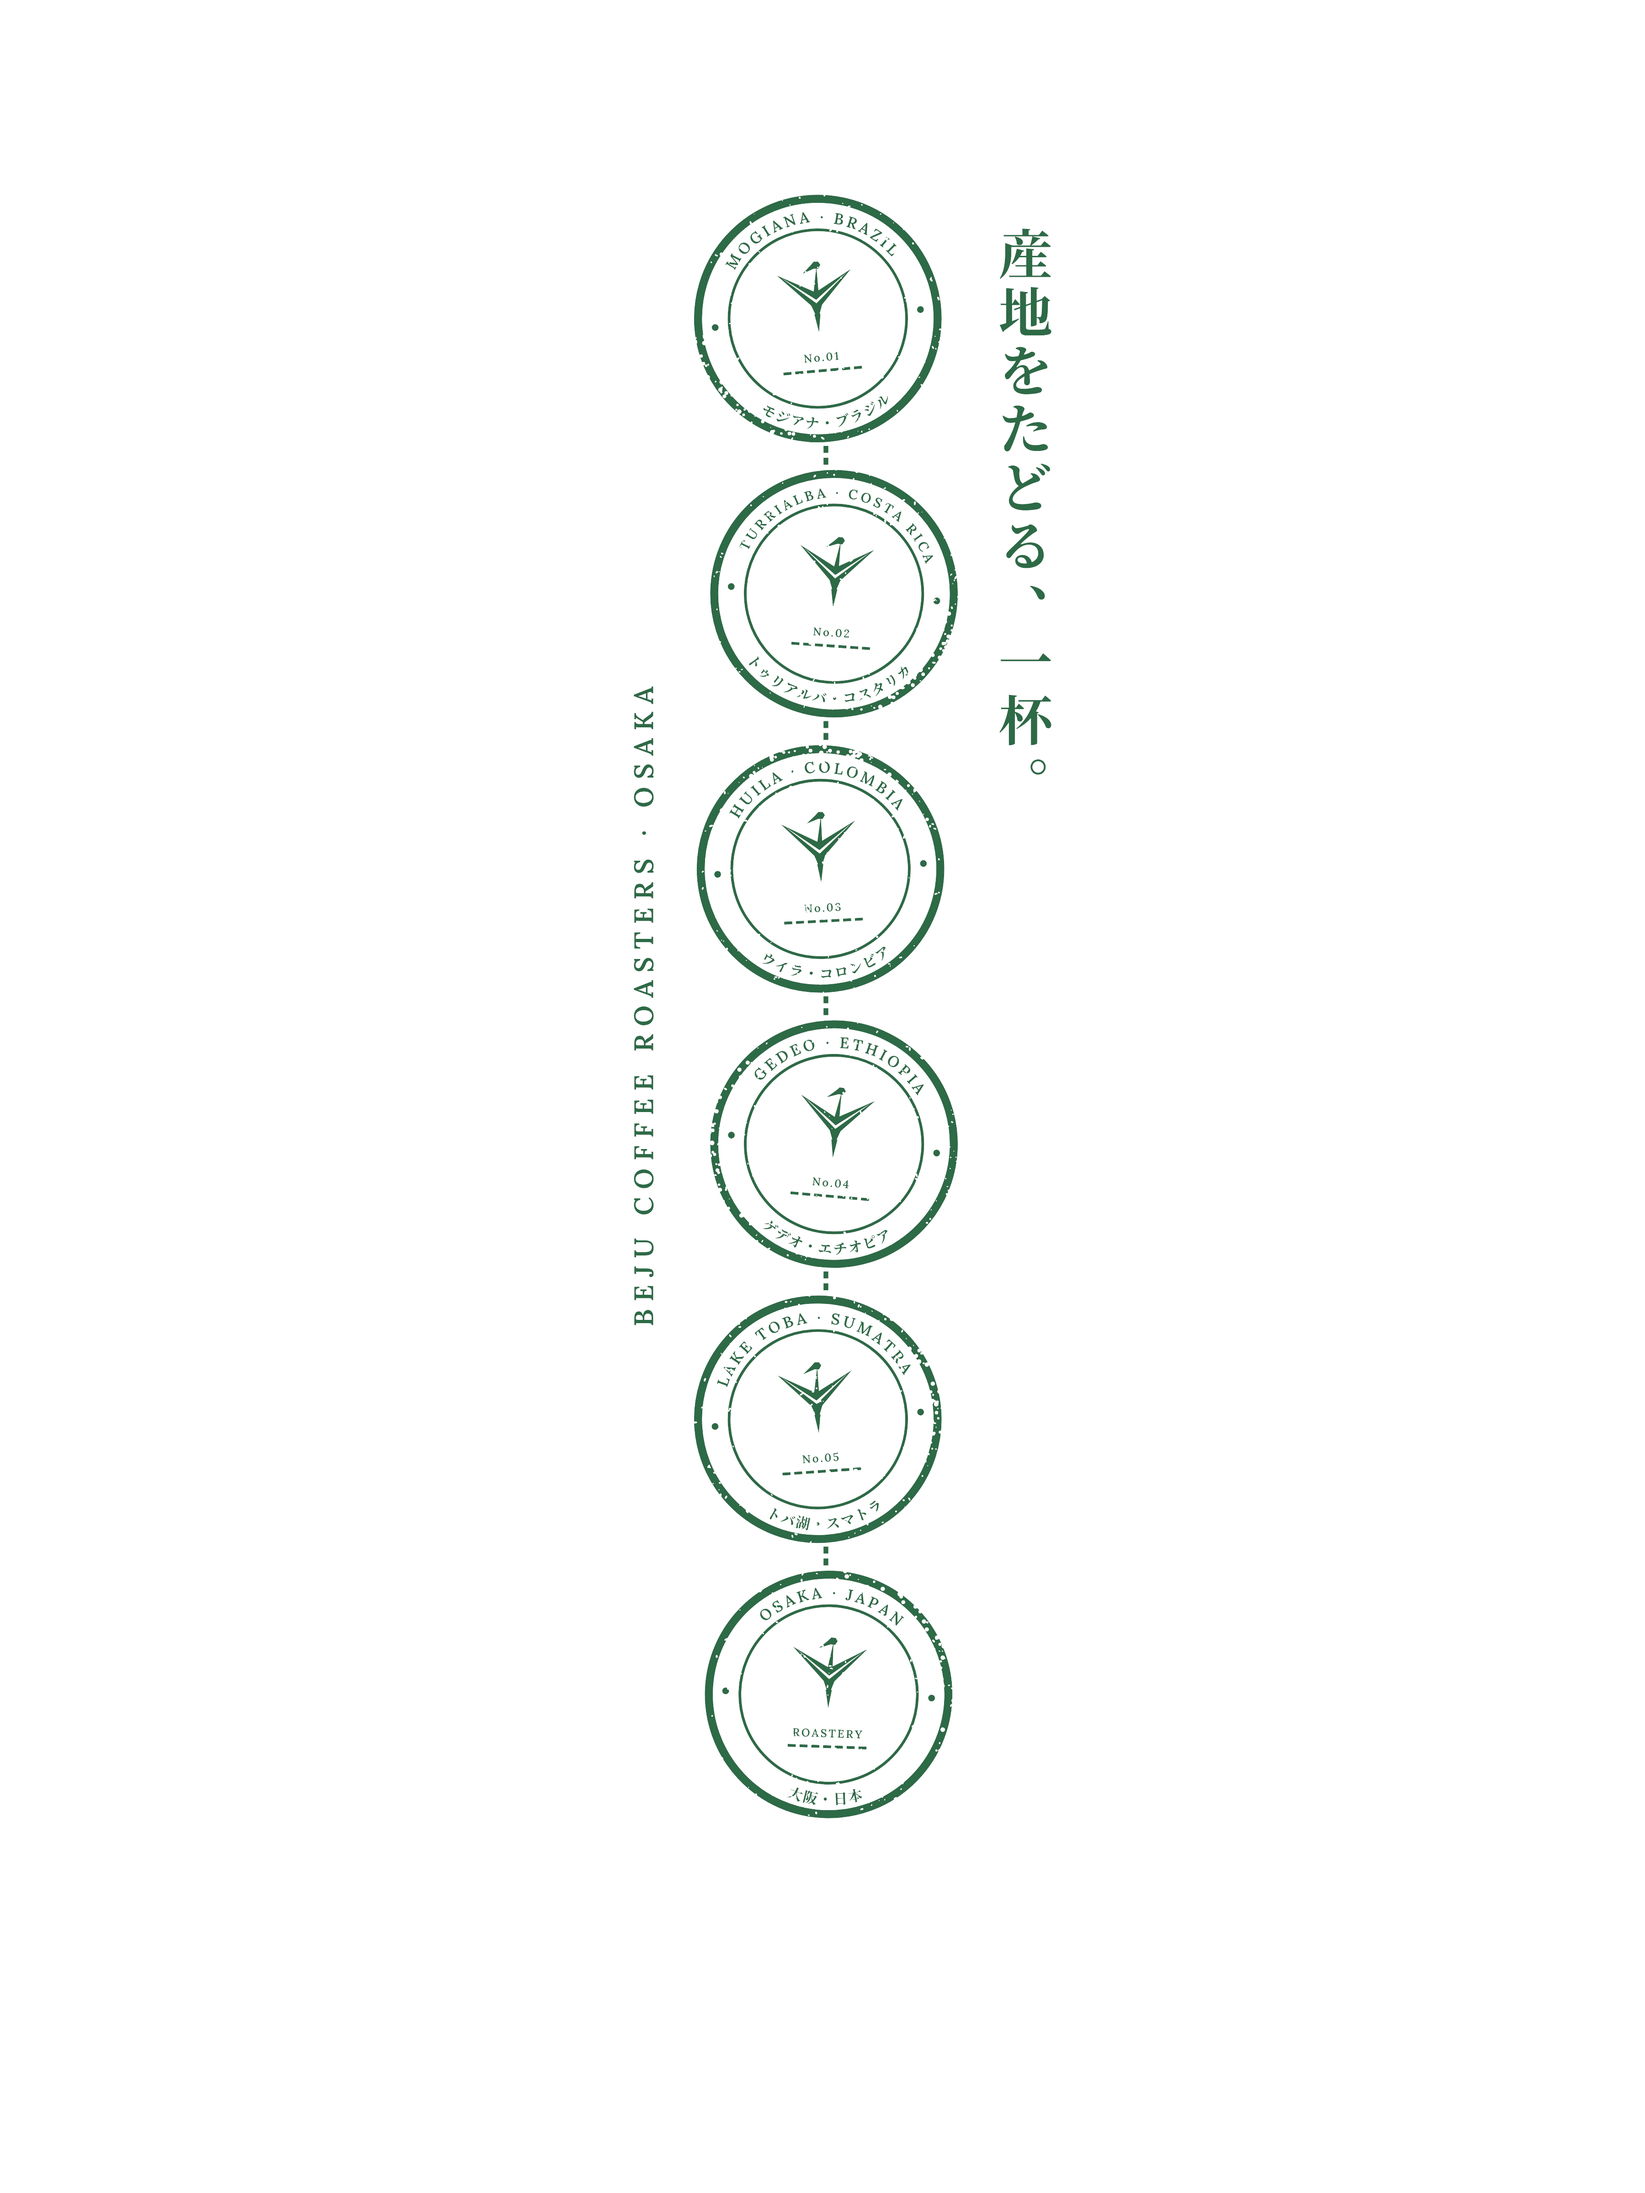
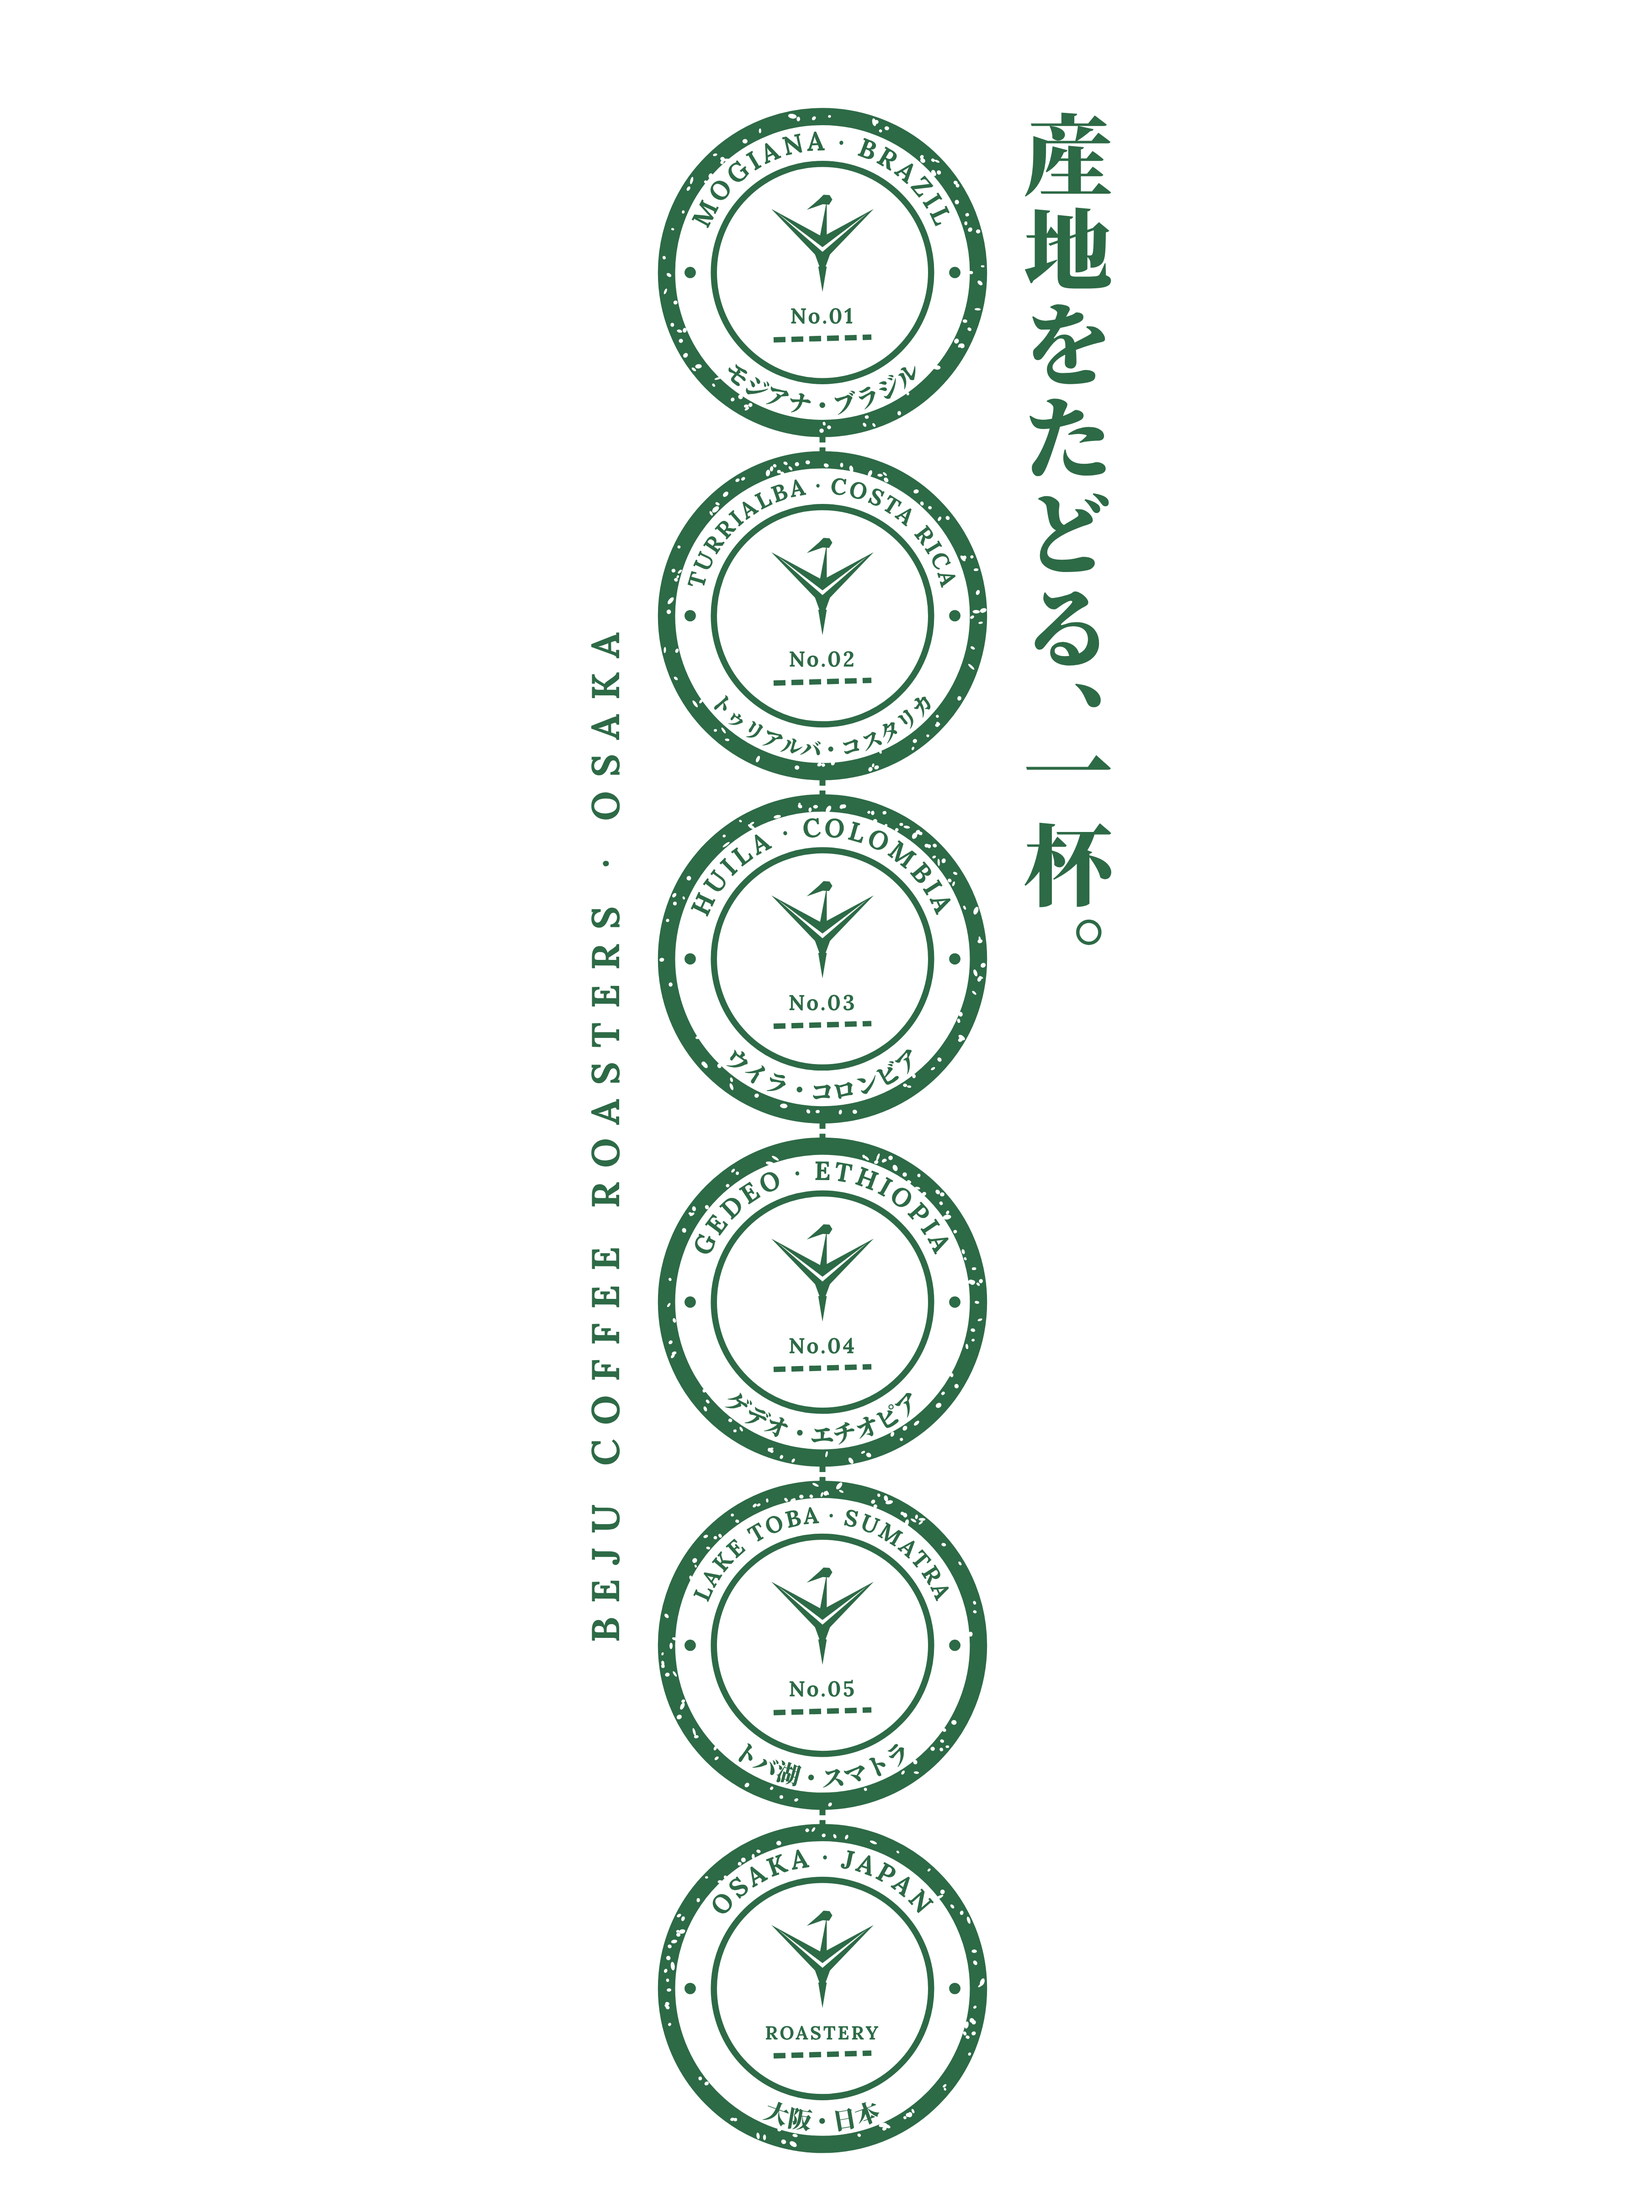
Passport tee back v2: larger stamps, bolder lettering, rebuilt as vector
Claude-Session: https://claude.ai/code/session_01DATZ3e2wnTa2q48YzpDCKH

Changed region(s): [[0.3422, 0.0312, 0.6844, 1.0], [0.6222, 0.375, 0.6844, 0.4375]]

diff --git a/print/tee/source/back.js b/print/tee/source/back.js
@@ -1,0 +1,53 @@
+// Beju Passport Tee back, v2 (Nov 2026): six passport stamps, 61 mm each, Lora Bold and Noto Serif JP Black.
+// Usage: node back.js <outdir> <fontsdir>. fontsdir holds the npm packages @fontsource/lora and @fontsource/noto-serif-jp unpacked
+// as x/fontsource-lora-5.3.0/package and x/fontsource-noto-serif-jp-5.3.1/package. Writes beju-passport-tee_{c2,pink}-back.png, 3600 x 4800 px (12 x 16 in at 300 dpi).
+const {chromium}=require('playwright');const fs=require('fs');const path=require('path');
+const OUT=process.argv[2], F=process.argv[3]; // fonts dir
+const logo=fs.readFileSync(path.join(__dirname,'../../../beju-site/images/logo.svg'),'utf8');
+const inner=logo.replace(/^<svg[^>]*>/,'').replace(/<\/svg>\s*$/,'');
+const stamps=[['MOGIANA · BRAZIL','モジアナ・ブラジル','No.01'],['TURRIALBA · COSTA RICA','トゥリアルバ・コスタリカ','No.02'],['HUILA · COLOMBIA','ウイラ・コロンビア','No.03'],['GEDEO · ETHIOPIA','ゲデオ・エチオピア','No.04'],['LAKE TOBA · SUMATRA','トバ湖・スマトラ','No.05'],['OSAKA · JAPAN','大阪・日本','ROASTERY']];
+function rnd(seed){return()=>{seed=(seed*16807)%2147483647;return seed/2147483647}}
+function build(ink,cutId){
+ const W=304.8,H=406.4,D=61,R=D/2,pitch=63.6,cx=W/2,top=20;
+ let s='',defs='';
+ // distress mask: speckles punched out of the ink
+ const r=rnd(7);let dots='';
+ for(let k=0;k<6;k++){const cy=top+R+k*pitch;
+  for(let i=0;i<70;i++){const a=r()*Math.PI*2, rr=R-0.6-r()*2.6; const big=r()<0.15; dots+=`<ellipse cx="${(cx+Math.cos(a)*rr).toFixed(2)}" cy="${(cy+Math.sin(a)*rr).toFixed(2)}" rx="${(big?0.55:0.25)+r()*0.25}" ry="${0.2+r()*0.25}" transform="rotate(${(r()*180).toFixed(0)} ${(cx+Math.cos(a)*rr).toFixed(2)} ${(cy+Math.sin(a)*rr).toFixed(2)})"/>`;}
+  for(let i=0;i<0;i++){const a=r()*Math.PI*2, rr=r()*R*0.95; dots+=`<circle cx="${(cx+Math.cos(a)*rr).toFixed(2)}" cy="${(cy+Math.sin(a)*rr).toFixed(2)}" r="${0.15+r()*0.2}"/>`;}}
+ defs+=`<mask id="${cutId}" maskUnits="userSpaceOnUse" x="0" y="0" width="${W}" height="${H}"><rect width="${W}" height="${H}" fill="white"/><g fill="black">${dots}</g></mask>`;
+ let g='';
+ stamps.forEach(([en,jp,no],k)=>{const cy=top+R+k*pitch;
+  const ro=R-1.6, ri=R*0.66, rt=(ro+ri)/2; // text radius
+  g+=`<circle cx="${cx}" cy="${cy}" r="${ro}" fill="none" stroke="${ink}" stroke-width="3.2"/>`;
+  g+=`<circle cx="${cx}" cy="${cy}" r="${ri}" fill="none" stroke="${ink}" stroke-width="1.15"/>`;
+  g+=`<circle cx="${cx-rt}" cy="${cy}" r="1.05" fill="${ink}"/><circle cx="${cx+rt}" cy="${cy}" r="1.05" fill="${ink}"/>`;
+  const ta=rt-1.9; // top arc baseline radius (text sits outside-in)
+  defs+=`<path id="t${k}" d="M ${cx-ta} ${cy} A ${ta} ${ta} 0 0 1 ${cx+ta} ${cy}"/>`;
+  const tb=rt+1.75;
+  defs+=`<path id="b${k}" d="M ${cx-tb} ${cy} A ${tb} ${tb} 0 0 0 ${cx+tb} ${cy}"/>`;
+  const fsEn=en.length>17?4.3:4.9;
+  g+=`<text font-family="LoraB" font-weight="700" font-size="${fsEn}" letter-spacing="${en.length>17?0.32:0.55}" fill="${ink}"><textPath href="#t${k}" startOffset="50%" text-anchor="middle">${en}</textPath></text>`;
+  g+=`<text font-family="NSJ" font-weight="900" font-size="${jp.length>9?3.9:4.4}" letter-spacing="0.15" fill="${ink}"><textPath href="#b${k}" startOffset="50%" text-anchor="middle">${jp}</textPath></text>`;
+  // crane
+  const cs=ri*0.98; g+=`<svg x="${cx-cs/2}" y="${cy-ri*0.78}" width="${cs}" height="${cs}" viewBox="0 0 100 100">${inner.replace(/id="f"/g,'id="f'+cutId+k+'"').replace(/url\(#f\)/g,'url(#f'+cutId+k+')').replace(/#2D6A46/gi,ink)}</svg>`;
+  g+=`<text x="${cx}" y="${cy+ri*0.47}" text-anchor="middle" font-family="LoraB" font-weight="700" font-size="${no==='ROASTERY'?3.5:4.0}" letter-spacing="0.35" fill="${ink}">${no}</text>`;
+  const dw=ri*0.9, y=cy+ri*0.62; g+=`<line x1="${cx-dw/2}" y1="${y}" x2="${cx+dw/2}" y2="${y-0.5}" stroke="${ink}" stroke-width="1.0" stroke-dasharray="2.2 1.1"/>`;
+  if(k<5){const y0=cy+R-0.2,y1=cy+pitch-R+0.2; g+=`<line x1="${cx}" y1="${y0}" x2="${cx}" y2="${y1}" stroke="${ink}" stroke-width="1.1" stroke-dasharray="1.2 0.9"/>`;}
+ });
+ const colH=5*pitch+D;
+ // side texts
+ const side=`<text transform="translate(${cx-R-9} ${top+colH/2}) rotate(-90)" text-anchor="middle" dominant-baseline="middle" font-family="LoraB" font-weight="700" font-size="7.2" letter-spacing="2.6" fill="${ink}">BEJU COFFEE ROASTERS · OSAKA</text>`;
+ const chars=[...'産地をたどる、一杯。'];let tag='',ty=top+15;const tx=cx+R+15,fs=16.5;
+ for(const ch of chars){const punct='、。'.includes(ch);
+  tag+=`<text x="${punct?tx+fs*0.55:tx}" y="${punct?ty-fs*0.62:ty}" text-anchor="middle" font-family="NSJ" font-weight="900" font-size="${fs}" fill="${ink}">${ch}</text>`;
+  ty+=punct?fs*0.55:fs*1.06;}
+ return `<svg xmlns="http://www.w3.org/2000/svg" width="3600" height="4800" viewBox="0 0 ${W} ${H}"><defs>${defs}</defs><g mask="url(#${cutId})">${g}${side}${tag}</g></svg>`;
+}
+(async()=>{const b=await chromium.launch();const p=await b.newPage({viewport:{width:3600,height:4800}});
+ const css=`@font-face{font-family:LoraB;font-weight:700;src:url(file://${F}/x/fontsource-lora-5.3.0/package/files/lora-latin-700-normal.woff2)}`+fs.readFileSync(F+'/x/fontsource-noto-serif-jp-5.3.1/package/900.css','utf8').replace(/font-family: 'Noto Serif JP'/g,"font-family: 'NSJ'").replace(/url\(\.\/files/g,'url(file://'+F+'/x/fontsource-noto-serif-jp-5.3.1/package/files');
+ for(const [name,ink] of [['c2','#2D6A46'],['pink','#E58AA0']]){
+  const html=`<html><head><style>${css} body{margin:0;background:transparent}</style></head><body><div style="position:absolute;left:-9999px;font-family:NSJ;font-weight:900">${stamps.map(x=>x[1]).join('')}産地をたどる、一杯。</div><div style="position:absolute;left:-9999px;font-family:LoraB;font-weight:700">ABCDEFGHIJKLMNOPQRSTUVWXYZ0123456789.·</div>${build(ink,'m'+name)}</body></html>`; const hf=path.join(OUT,'page_'+name+'.html'); fs.writeFileSync(hf,html); await p.goto('file://'+hf);
+  await p.evaluate(async()=>{await document.fonts.ready;}); await p.waitForTimeout(1500); await p.evaluate(async()=>{await document.fonts.ready;}); console.log(await p.evaluate(()=>[...document.fonts].filter(f=>f.status==='loaded').length));
+  await p.locator('svg').first().screenshot({path:path.join(OUT,`beju-passport-tee_${name}-back.png`),omitBackground:true});}
+ await b.close();})();
